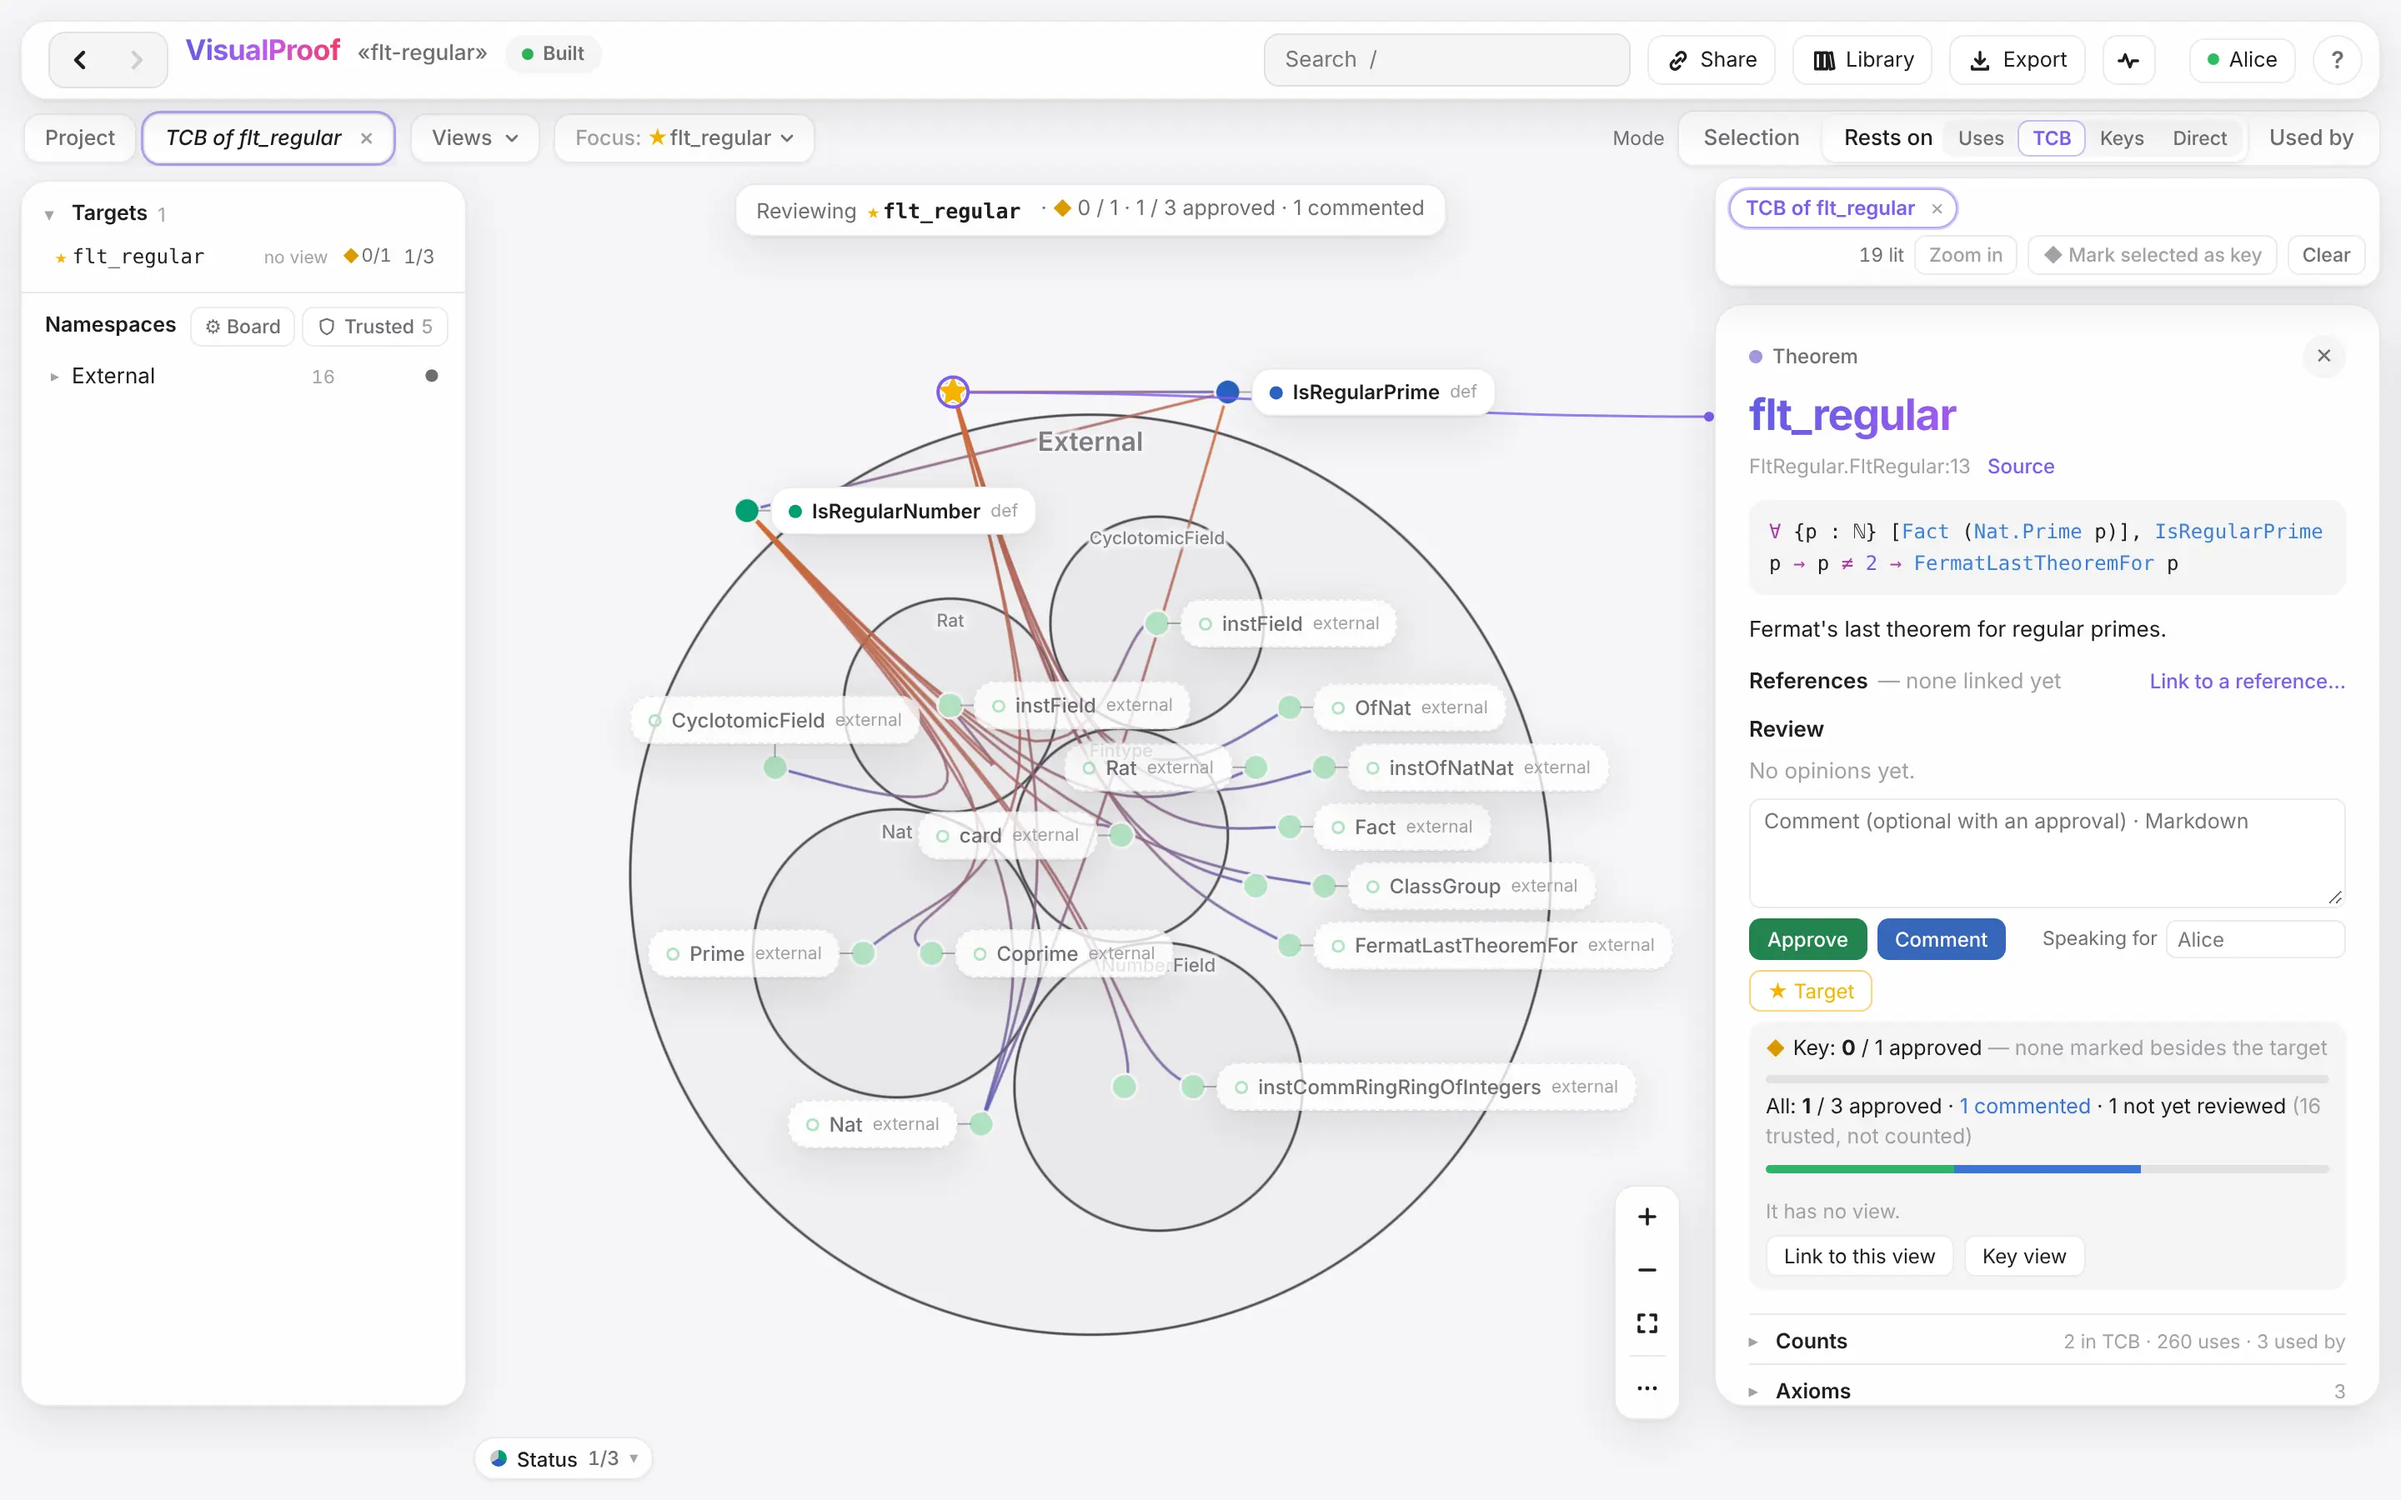
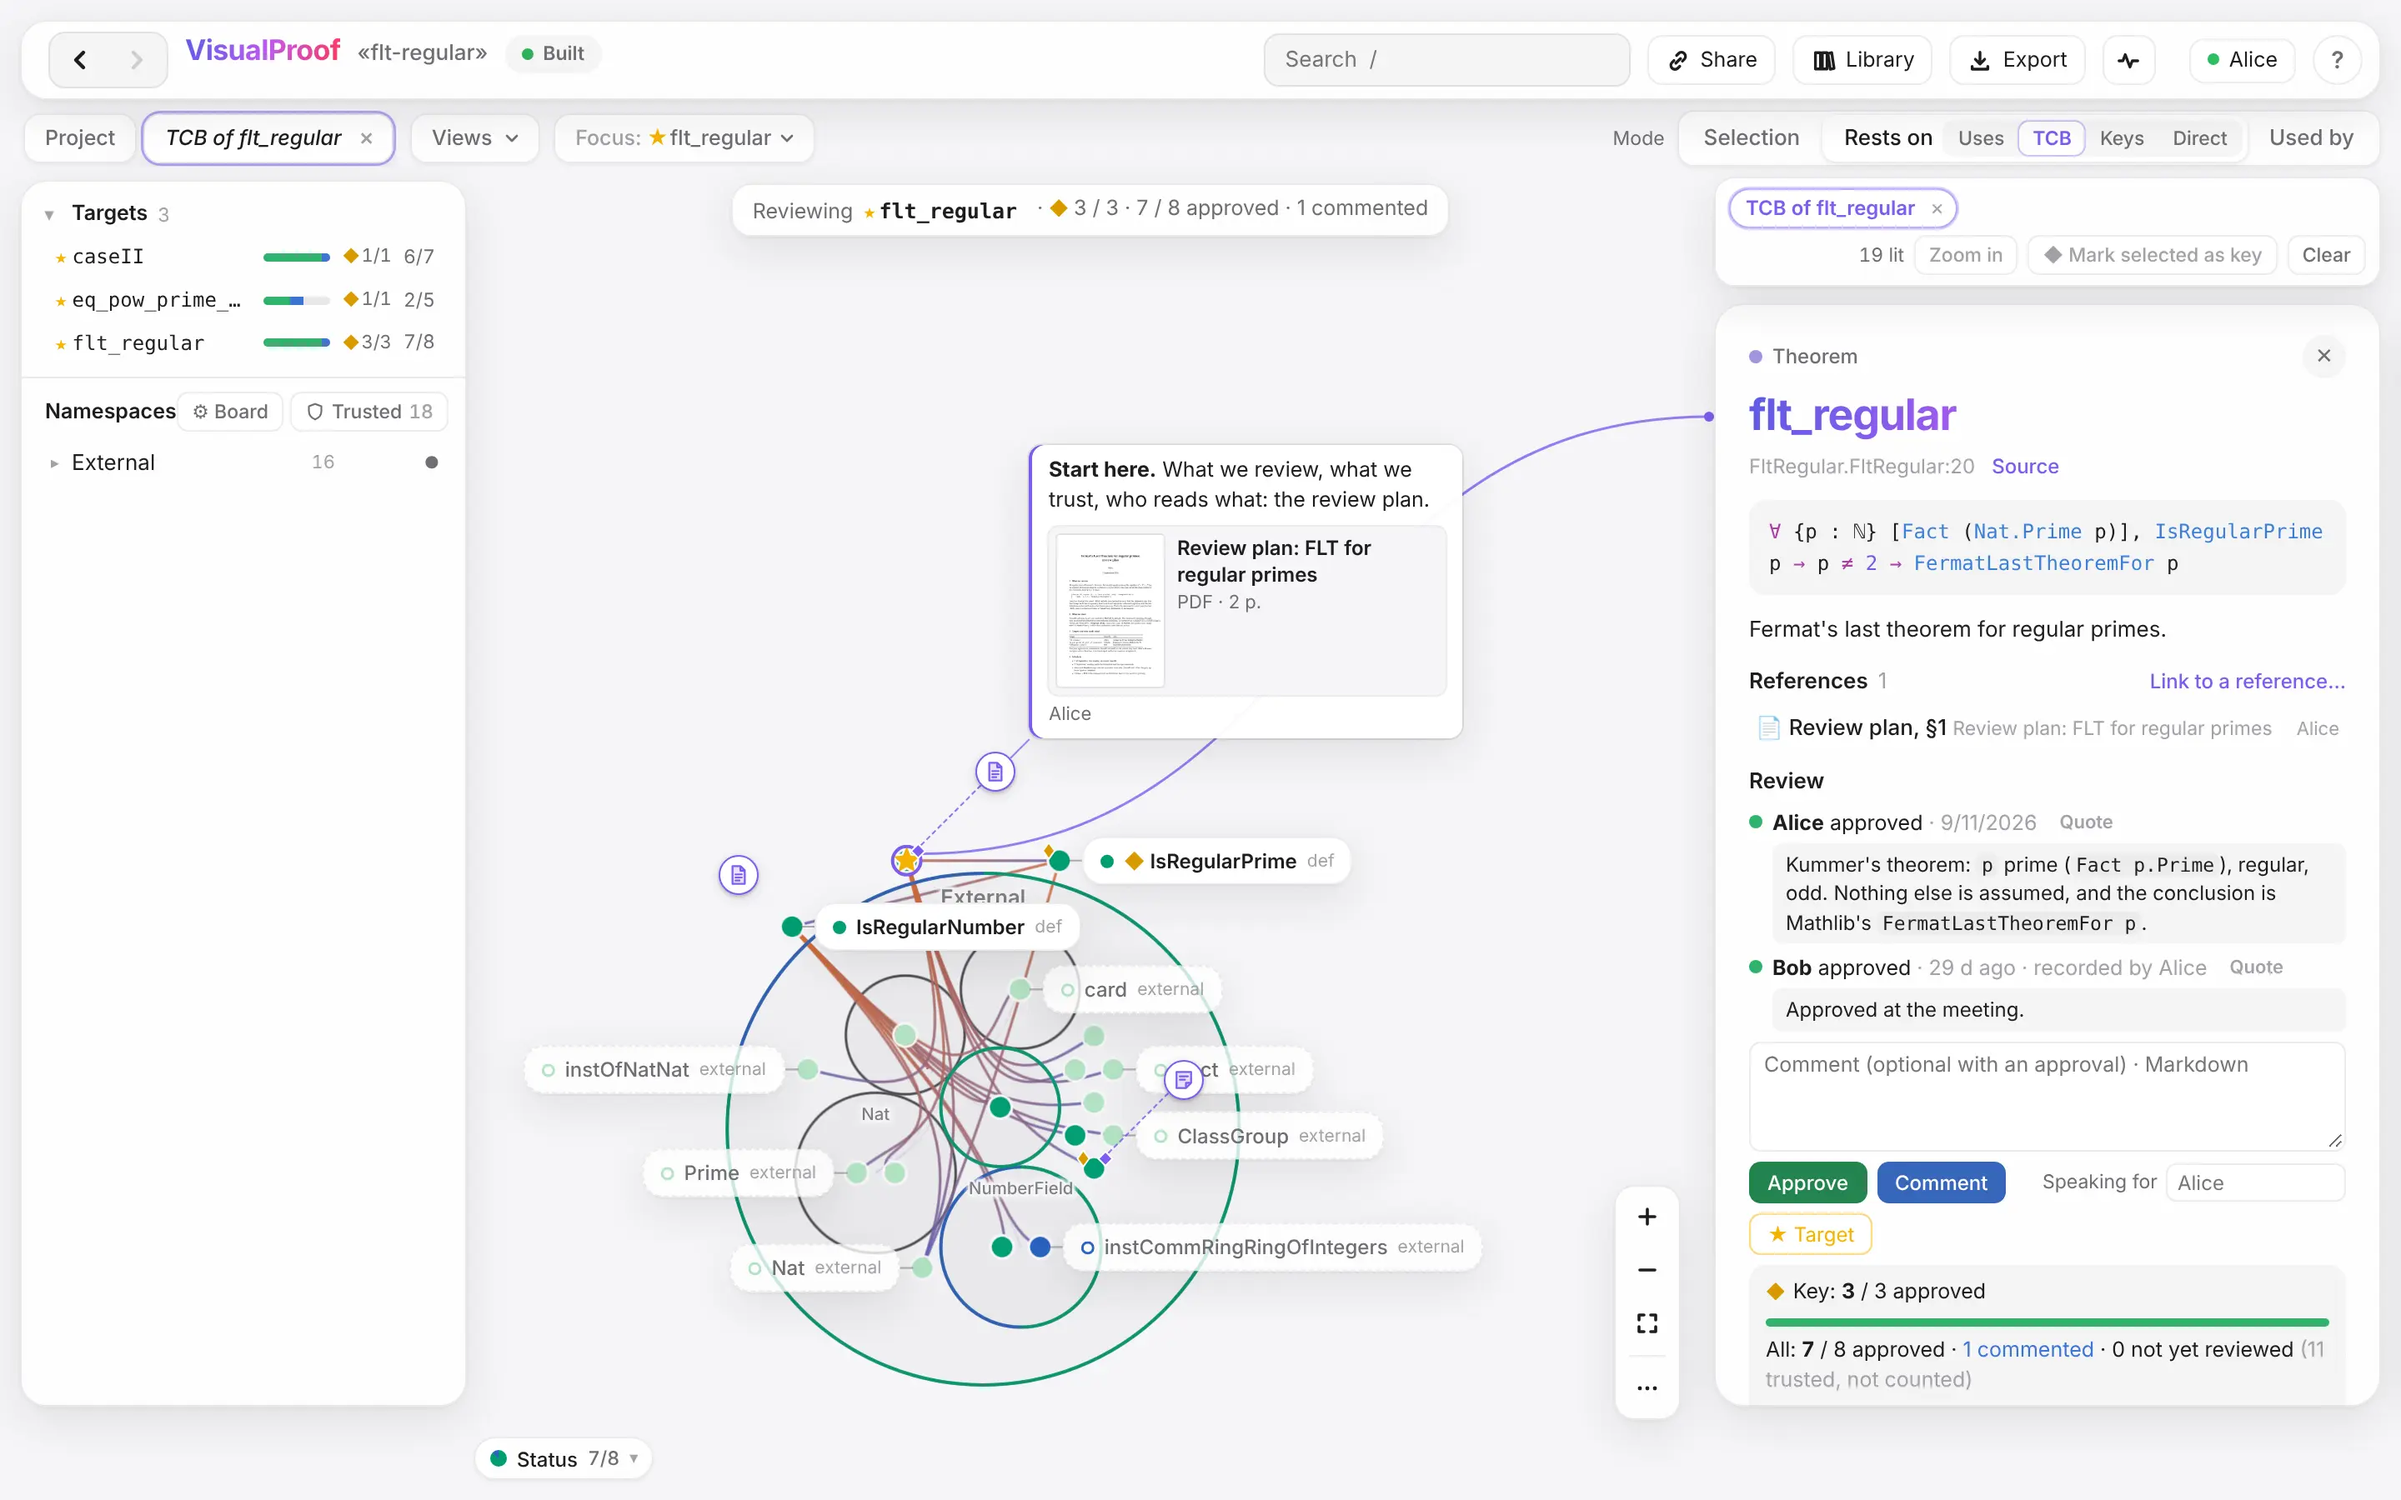
README: the board from the showcase, right under the posters
The screenshot of the page in use is taken again on the flt-regular
showcase, the same view as before (the TCB of flt_regular, zoomed in),
now with the review it holds: the key declarations approved, Bob's
approval recorded by Alice at the meeting, the review plan pinned beside
the theorem. It stands right under the five posters and opens the live
demo.

Claude-Session: https://claude.ai/code/session_01GAC3vHWyjMTp7GL3oaceYL

diff --git a/README.md b/README.md
@@ -9,6 +9,8 @@
 </p>
 <p align="center"><sub>Five Lean codebases, drawn by <code>visualproof artwork</code>.</sub></p>
 
+[![VisualProof on flt-regular, from the live demo: the TCB of flt_regular, its key declarations approved, an approval recorded at a meeting, the review plan pinned beside it](docs/images/board.webp)](https://visualproof-demo.yingte.io)
+
 ## Try it
 
 **[Live demo](https://visualproof-demo.yingte.io)**: flt-regular in the middle of a review by
@@ -34,8 +36,6 @@ Lean checks that a proof is correct. It cannot check that the theorem says what 
 definitions in its statement mean what their names suggest. VisualProof shows exactly which
 definitions those are, so that people, and AI agents, can read them, review them together, and
 keep a record of the review.
-
-![VisualProof on flt-regular: the TCB of flt_regular — IsRegularPrime, IsRegularNumber and the Mathlib definitions they use — with the theorem's review panel](docs/images/board.webp)
 
 On [flt-regular](https://github.com/leanprover-community/flt-regular), Fermat's Last Theorem for
 regular primes. Of the project's
